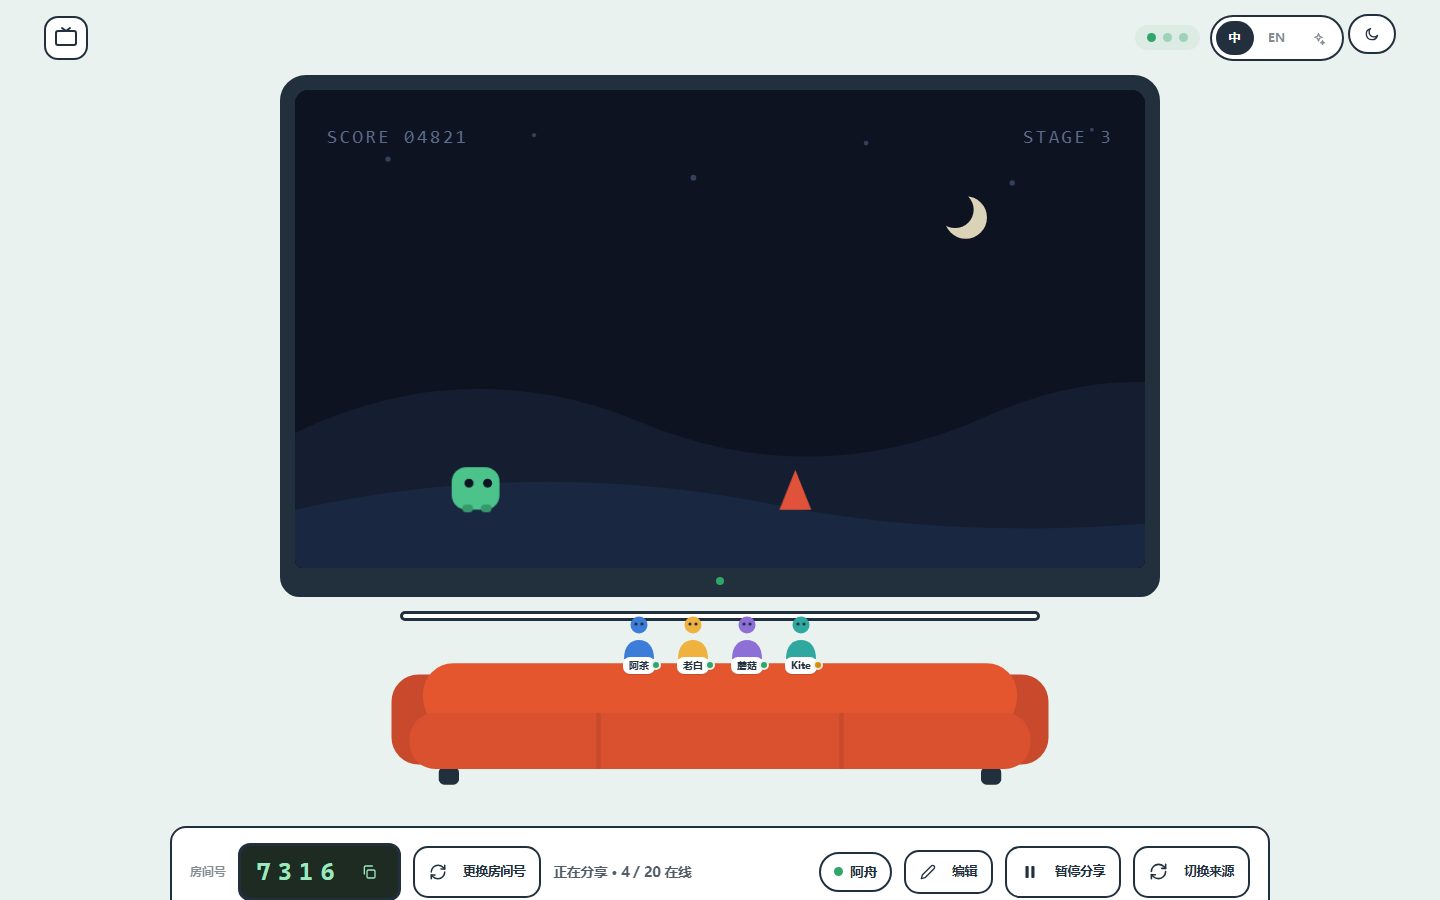
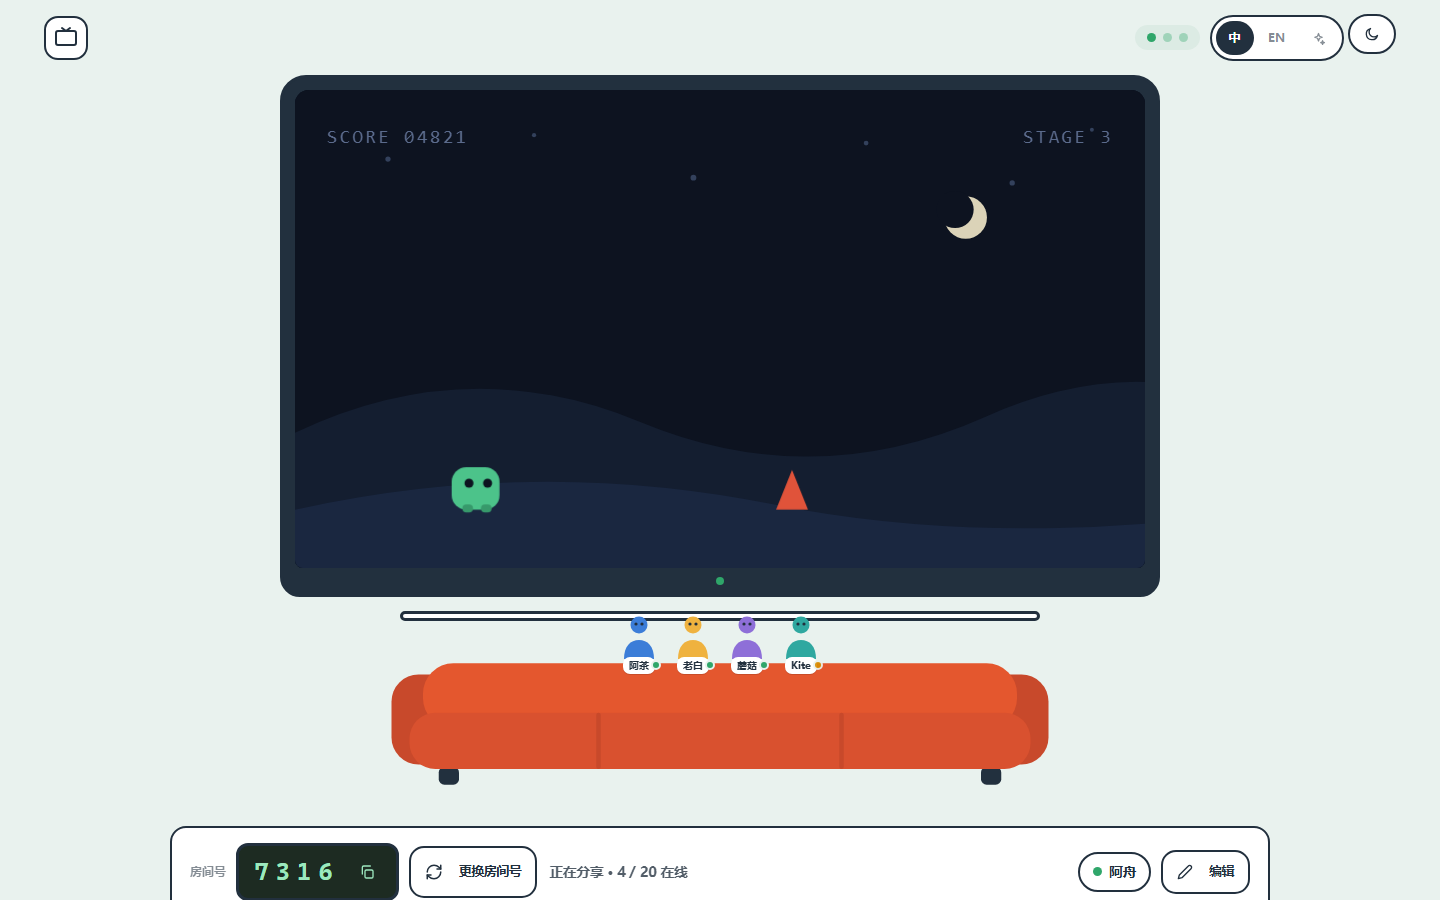
Tidy mobile layout, triangle self marker, host crown

Changed region(s): [[0.5625, 0.9333, 0.875, 1.0], [0.1562, 0.9333, 0.5, 0.9956], [0.5312, 0.5289, 0.5625, 0.56]]

diff --git a/prototype/b-visual/b.js b/prototype/b-visual/b.js
@@ -236,7 +236,7 @@
       <svg viewBox="0 0 640 ${h}">
         <title>${esc(t("host.topology"))}</title>
         ${edges.join("")}
-        <g transform="translate(${hostPos.x - 4}, ${hostPos.y - 20}) scale(0.85)">${pawnSvg("#e4572e")}<title>${esc(hostLabel)} · ${esc(t("common.host"))}</title></g>
+        <g transform="translate(${hostPos.x - 4}, ${hostPos.y - 20}) scale(0.85)"><path d="M11 12.5 L8.5 2 L14 6.5 L17 0 L20 6.5 L25.5 2 L23 12.5 Z" fill="#efb23f"/>${pawnSvg("#e4572e")}<title>${esc(hostLabel)} · ${esc(t("common.host"))}</title></g>
         ${nameText(hostLabel, hostPos.x + 14, hostPos.y + 30)}
         ${sfuPos ? `<g transform="translate(${sfuPos.x - 20}, ${sfuPos.y - 16})"><title>${esc(t("host.sfu"))}</title><rect width="40" height="32" rx="7" fill="none" stroke="#8ea3b8" stroke-width="2.5"/><path d="M8 12h24M8 20h24" stroke="#8ea3b8" stroke-width="2.5" stroke-linecap="round"/></g>${nameText(t("host.sfu"), sfuPos.x, sfuPos.y + 32)}` : ""}
         ${rendered.join("")}
@@ -385,25 +385,29 @@
     function inviteRowHtml() {
       if (!hasRoom()) return "";
       return `<div class="b-row" role="group" aria-label="${esc(t("host.invite"))}">
-        <button class="b-btn ${H.invite ? "is-primary" : ""}" data-act="copy-invite" title="${esc(t("host.invite.copy"))}" aria-label="${esc(t("host.invite.copy"))}" ${H.invite ? "" : "disabled"}>${I("link", 19)}${cap("common.copy")}</button>
-        <button class="b-btn" data-act="rotate-invite" title="${esc(t("host.invite.rotate"))}" aria-label="${esc(t("host.invite.rotate"))}">${I("refresh", 18)}${cap("host.invite.rotate")}</button>
-        <button class="b-btn is-danger" data-act="revoke-invite" title="${esc(t("host.invite.revoke"))}" aria-label="${esc(t("host.invite.revoke"))}" ${H.invite ? "" : "disabled"}>${I("linkOff", 19)}${cap("host.invite.revoke")}</button>
+        <div class="b-row-group b-group-actions">
+          <button class="b-btn ${H.invite ? "is-primary" : ""}" data-act="copy-invite" title="${esc(t("host.invite.copy"))}" aria-label="${esc(t("host.invite.copy"))}" ${H.invite ? "" : "disabled"}>${I("link", 19)}${cap("common.copy")}</button>
+          <button class="b-btn" data-act="rotate-invite" title="${esc(t("host.invite.rotate"))}" aria-label="${esc(t("host.invite.rotate"))}">${I("refresh", 18)}${cap("host.invite.rotate")}</button>
+          <button class="b-btn is-danger" data-act="revoke-invite" title="${esc(t("host.invite.revoke"))}" aria-label="${esc(t("host.invite.revoke"))}" ${H.invite ? "" : "disabled"}>${I("linkOff", 19)}${cap("host.invite.revoke")}</button>
+        </div>
         <span class="b-divider"></span>
-        <span class="b-toggle" role="group" aria-label="${esc(t("host.policy"))}">
-          <button type="button" data-act="policy" data-v="open" class="${H.policy === "open" ? "is-selected" : ""}" title="${esc(t("host.policy.open"))} · ${esc(t("host.policy.openHint"))}" aria-label="${esc(t("host.policy.open"))}" aria-pressed="${H.policy === "open"}">${I("globe", 19)}${cap("host.policy.open")}</button>
-          <button type="button" data-act="policy" data-v="private" class="${H.policy === "private" ? "is-selected" : ""}" title="${esc(t("host.policy.private"))} · ${esc(t("host.policy.privateHint"))}" aria-label="${esc(t("host.policy.private"))}" aria-pressed="${H.policy === "private"}">${I("lock", 19)}${cap("host.policy.private")}</button>
-        </span>
-        ${H.policy === "private" ? `
-        <button class="b-btn ${H.hasPassword ? "is-on" : ""}" data-act="password-toggle" title="${esc(t(H.hasPassword ? "host.password.set" : "host.password.unset"))}" aria-label="${esc(t("host.password.setAction"))}" aria-expanded="${H.passwordOpen}">${I("key", 19)}${cap("join.password")}</button>
-        ${H.passwordOpen ? `
+        <div class="b-row-group">
+          <span class="b-toggle" role="group" aria-label="${esc(t("host.policy"))}">
+            <button type="button" data-act="policy" data-v="open" class="${H.policy === "open" ? "is-selected" : ""}" title="${esc(t("host.policy.open"))} · ${esc(t("host.policy.openHint"))}" aria-label="${esc(t("host.policy.open"))}" aria-pressed="${H.policy === "open"}">${I("globe", 19)}${cap("host.policy.open")}</button>
+            <button type="button" data-act="policy" data-v="private" class="${H.policy === "private" ? "is-selected" : ""}" title="${esc(t("host.policy.private"))} · ${esc(t("host.policy.privateHint"))}" aria-label="${esc(t("host.policy.private"))}" aria-pressed="${H.policy === "private"}">${I("lock", 19)}${cap("host.policy.private")}</button>
+          </span>
+          ${H.policy === "private" ? `
+          <button class="b-btn ${H.hasPassword ? "is-on" : ""}" data-act="password-toggle" title="${esc(t(H.hasPassword ? "host.password.set" : "host.password.unset"))}" aria-label="${esc(t("host.password.setAction"))}" aria-expanded="${H.passwordOpen}">${I("key", 19)}${cap("join.password")}</button>` : ""}
+        </div>
+        ${H.policy === "private" && H.passwordOpen ? `
+        <div class="b-row-group">
           <span class="b-input" style="flex:1;min-width:180px">
             ${I("key", 17)}
             <input type="password" data-password-input placeholder="····" aria-label="${esc(t("join.password"))}" value="${H.hasPassword ? "momo42" : ""}">
           </span>
           <button class="b-btn" data-act="password-save" title="${esc(t("host.password.setAction"))}" aria-label="${esc(t("common.save"))}">${I("check", 18)}</button>
           ${H.hasPassword ? `<button class="b-btn is-danger" data-act="password-remove" title="${esc(t("host.password.remove"))}" aria-label="${esc(t("host.password.remove"))}">${I("x", 18)}</button>` : ""}
-        ` : ""}
-        ` : ""}
+        </div>` : ""}
       </div>`;
     }
 
@@ -546,26 +550,28 @@
       <div class="b-deck">
         ${pawnDetailHtml()}
         <div class="b-row">
-          ${!D.vis && hasRoom() ? `<span class="b-field-cap">${esc(t("common.roomCode"))}</span>` : ""}
-          ${hasRoom() ? lcd(H.code) : ""}
-          ${hasRoom() ? (H.replacing ? `
-            <button class="b-btn" data-act="replace-confirm" title="${esc(t("host.roomReplaceConfirm"))}" aria-label="${esc(t("host.roomReplaceConfirm"))}">${I("check", 18)}</button>
-            <button class="b-btn" data-act="replace-cancel" title="${esc(t("common.cancel"))}" aria-label="${esc(t("common.cancel"))}">${I("x", 18)}</button>
-          ` : `
-            <button class="b-btn" data-act="replace-room" title="${esc(t("host.roomReplace"))}" aria-label="${esc(t("host.roomReplace"))}" ${H.scene === "starting" ? "disabled" : ""}>${I("refresh", 18)}${cap("host.roomReplace")}</button>
-          `) : ""}
-          ${phaseText}
+          <div class="b-row-group b-group-code">
+            ${!D.vis && hasRoom() ? `<span class="b-field-cap">${esc(t("common.roomCode"))}</span>` : ""}
+            ${hasRoom() ? lcd(H.code) : ""}
+            ${hasRoom() ? (H.replacing ? `
+              <button class="b-btn" data-act="replace-confirm" title="${esc(t("host.roomReplaceConfirm"))}" aria-label="${esc(t("host.roomReplaceConfirm"))}">${I("check", 18)}</button>
+              <button class="b-btn" data-act="replace-cancel" title="${esc(t("common.cancel"))}" aria-label="${esc(t("common.cancel"))}">${I("x", 18)}</button>
+            ` : `
+              <button class="b-btn" data-act="replace-room" title="${esc(t("host.roomReplace"))}" aria-label="${esc(t("host.roomReplace"))}" ${H.scene === "starting" ? "disabled" : ""}>${I("refresh", 18)}${cap("host.roomReplace")}</button>
+            `) : ""}
+          </div>
+          ${phaseText ? `<div class="b-row-group b-group-status">${phaseText}${H.noAudio && isLive() ? pill("speaker", "", t("host.noAudio")) : ""}${H.notice ?? ""}</div>` : H.noAudio && isLive() ? `<div class="b-row-group b-group-status">${pill("speaker", "", t("host.noAudio"))}</div>` : H.notice ? `<div class="b-row-group b-group-status">${H.notice}</div>` : ""}
           <span class="b-spacer"></span>
-          ${H.noAudio && isLive() ? pill("speaker", "", t("host.noAudio")) : ""}
-          ${H.notice ?? ""}
-          ${nameHtml()}
-          ${controlsHtml()}
+          <div class="b-row-group b-group-name">${nameHtml()}</div>
+          <div class="b-row-group b-group-actions">${controlsHtml()}</div>
         </div>
         ${inviteRowHtml()}
         ${qualityRowHtml()}
         <div class="b-row" role="group" aria-label="${esc(t("host.details"))}">
-          <button class="b-btn ${H.details ? "is-on" : ""}" data-act="details" title="${esc(t(H.details ? "host.details.hide" : "host.details"))}" aria-label="${esc(t("host.details"))}" aria-expanded="${H.details}">${I("gauge", 20)}${cap("host.details")}</button>
-          <button class="b-btn ${H.topology ? "is-on" : ""}" data-act="topology" title="${esc(t(H.topology ? "host.topology.hide" : "host.topology.show"))}" aria-label="${esc(t("host.topology"))}" aria-expanded="${H.topology}">${I("network", 20)}${cap("host.topology")}</button>
+          <div class="b-row-group b-group-actions">
+            <button class="b-btn ${H.details ? "is-on" : ""}" data-act="details" title="${esc(t(H.details ? "host.details.hide" : "host.details"))}" aria-label="${esc(t("host.details"))}" aria-expanded="${H.details}">${I("gauge", 20)}${cap("host.details")}</button>
+            <button class="b-btn ${H.topology ? "is-on" : ""}" data-act="topology" title="${esc(t(H.topology ? "host.topology.hide" : "host.topology.show"))}" aria-label="${esc(t("host.topology"))}" aria-expanded="${H.topology}">${I("network", 20)}${cap("host.topology")}</button>
+          </div>
         </div>
         ${H.details ? `<div class="b-row is-sub b-fade">${meterTag("arrowUp", t("stats.title"))}${meterStrip()}</div>` : ""}
         ${H.topology ? `<div class="b-row is-sub b-fade">${routePath({ viewers: list, hostLabel: H.name, flow: H.scene === "starting" })}</div>` : ""}
@@ -808,10 +814,13 @@
       <div class="b-deck">
         ${pawnDetailHtml(children)}
         <div class="b-row">
-          ${!D.vis ? `<span class="b-field-cap">${esc(t("common.roomCode"))}</span>` : ""}
-          ${lcd(D.roomCode())}
-          ${D.vis ? "" : `<span class="b-status-text">${esc(ledState[1])} · ${onlineCount} ${esc(t("common.online"))}</span>`}
+          <div class="b-row-group b-group-code">
+            ${!D.vis ? `<span class="b-field-cap">${esc(t("common.roomCode"))}</span>` : ""}
+            ${lcd(D.roomCode())}
+          </div>
+          ${D.vis ? "" : `<div class="b-row-group b-group-status"><span class="b-status-text">${esc(ledState[1])} · ${onlineCount} ${esc(t("common.online"))}</span></div>`}
           <span class="b-spacer"></span>
+          <div class="b-row-group b-group-name">
           ${V.editingName ? `
             <span class="b-input" style="min-width:140px"><input data-name-input value="${esc(V.name)}" maxlength="48" aria-label="${esc(t("host.name"))}"></span>
             <button class="b-btn" data-act="name-save" title="${esc(t("host.nameSave"))}" aria-label="${esc(t("host.nameSave"))}" style="min-width:44px;height:44px">${I("check", 16)}</button>
@@ -820,9 +829,12 @@
             <span class="b-name-tag" title="${esc(t("host.name"))}"><i></i>${esc(V.name)}</span>
             <button class="b-btn" data-act="name-edit" title="${esc(t("host.nameEdit"))}" aria-label="${esc(t("host.nameEdit"))}" style="min-width:44px;height:44px">${I("pencil", 15)}${cap("common.edit")}</button>
           `}
-          <button class="b-btn ${V.topology ? "is-on" : ""}" data-act="topology" title="${esc(t(V.topology ? "host.topology.hide" : "host.topology.show"))}" aria-label="${esc(t("host.topology"))}" aria-expanded="${V.topology}">${I("network", 19)}${cap("host.topology")}</button>
-          <button class="b-btn" data-act="reconnect" title="${esc(t("viewer.reconnect"))}" aria-label="${esc(t("viewer.reconnect"))}" ${["playing", "recovering", "failed", "hostoffline", "paused"].includes(V.scene) ? "" : "disabled"}>${I("refresh", 19)}${cap("viewer.reconnect")}</button>
-          <button class="b-btn ${V.details ? "is-on" : ""}" data-act="details" title="${esc(t(V.details ? "host.details.hide" : "host.details"))}" aria-label="${esc(t("host.details"))}" aria-expanded="${V.details}">${I("gauge", 19)}${cap("host.details")}</button>
+          </div>
+          <div class="b-row-group b-group-actions">
+            <button class="b-btn ${V.topology ? "is-on" : ""}" data-act="topology" title="${esc(t(V.topology ? "host.topology.hide" : "host.topology.show"))}" aria-label="${esc(t("host.topology"))}" aria-expanded="${V.topology}">${I("network", 19)}${cap("host.topology")}</button>
+            <button class="b-btn" data-act="reconnect" title="${esc(t("viewer.reconnect"))}" aria-label="${esc(t("viewer.reconnect"))}" ${["playing", "recovering", "failed", "hostoffline", "paused"].includes(V.scene) ? "" : "disabled"}>${I("refresh", 19)}${cap("viewer.reconnect")}</button>
+            <button class="b-btn ${V.details ? "is-on" : ""}" data-act="details" title="${esc(t(V.details ? "host.details.hide" : "host.details"))}" aria-label="${esc(t("host.details"))}" aria-expanded="${V.details}">${I("gauge", 19)}${cap("host.details")}</button>
+          </div>
         </div>
         ${V.details ? `<div class="b-row is-sub b-fade">${meterTag("arrowDown", t("stats.title"))}${meterStrip(V.route)}</div>` : ""}
         ${V.details && V.relay ? `<div class="b-row is-sub b-fade">${meterTag("arrowUp", t("stats.relay"))}${meterStrip()}</div>` : ""}

diff --git a/prototype/b-visual/b.css b/prototype/b-visual/b.css
@@ -217,6 +217,10 @@ ul { margin: 0; padding: 0; list-style: none; }
   opacity: .6;
 }
 .b-pawn-detail-close:hover { opacity: 1; background: rgba(0, 0, 0, .06); }
+
+/* row groups: keep related controls on one line; they become tidy stacked
+   lines with equal-width buttons on narrow screens */
+.b-row-group { display: flex; flex-wrap: wrap; align-items: center; gap: 10px; min-width: 0; }
 .b-pawn.is-child { width: 34px; margin-left: -8px; align-self: end; }
 .b-pawn.is-child svg { width: 30px; height: 36px; }
 
@@ -239,9 +243,9 @@ ul { margin: 0; padding: 0; list-style: none; }
   content: "";
   position: absolute;
   top: -13px; left: 50%;
-  width: 14px; height: 14px;
+  width: 13px; height: 10px;
   background: var(--you);
-  clip-path: polygon(50% 0, 63% 35%, 100% 38%, 71% 60%, 82% 100%, 50% 75%, 18% 100%, 29% 60%, 0 38%, 37% 35%);
+  clip-path: polygon(50% 100%, 0 0, 100% 0);
   transform: translateX(-50%);
 }
 .b-pawn.is-you { z-index: 1; }
@@ -836,10 +840,22 @@ html[data-theme="dark"] .scene-bar-label { color: #7d92a8; }
   .b-pawns { top: -24px; gap: 2px 6px; }
   .b-pawn { width: 36px; }
   .b-pawn svg { width: 32px; height: 39px; }
-  .b-row { padding: 12px; gap: 10px; }
-  .b-lcd { font-size: 20px; }
-  .b-dial { width: 54px; height: 66px; font-size: 28px; }
+  .b-row { flex-direction: column; align-items: stretch; gap: 12px; padding: 14px; }
+  .b-row > .b-spacer,
+  .b-row > .b-divider { display: none; }
+  .b-row-group { width: 100%; gap: 9px; }
+  .b-group-actions { display: flex; width: 100%; gap: 8px; min-width: 0; }
+  .b-group-actions .b-btn { flex: 1 1 0; min-width: 0; min-height: 52px; padding: 4px 8px; }
+  .b-group-actions .b-btn .b-cap { white-space: normal; text-align: center; line-height: 1.25; }
+  .b-lcd { flex: 1; justify-content: center; }
+  .b-tiles { display: flex; width: 100%; gap: 8px; }
+  .b-tiles .b-tile { flex: 1 1 0; min-width: 0; padding: 10px 6px 8px; }
+  .b-meter { display: grid; grid-template-columns: repeat(2, minmax(0, 1fr)); width: 100%; }
+  .b-meter-cell { justify-content: flex-start; }
+  .b-pawn-detail-close { margin-left: 0; }
   .b-door-body { padding: 12px; }
+  .b-dial { width: 54px; height: 66px; font-size: 28px; }
+  .b-status-text { width: 100%; }
 }
 
 /* ---------- reduced motion ---------- */
